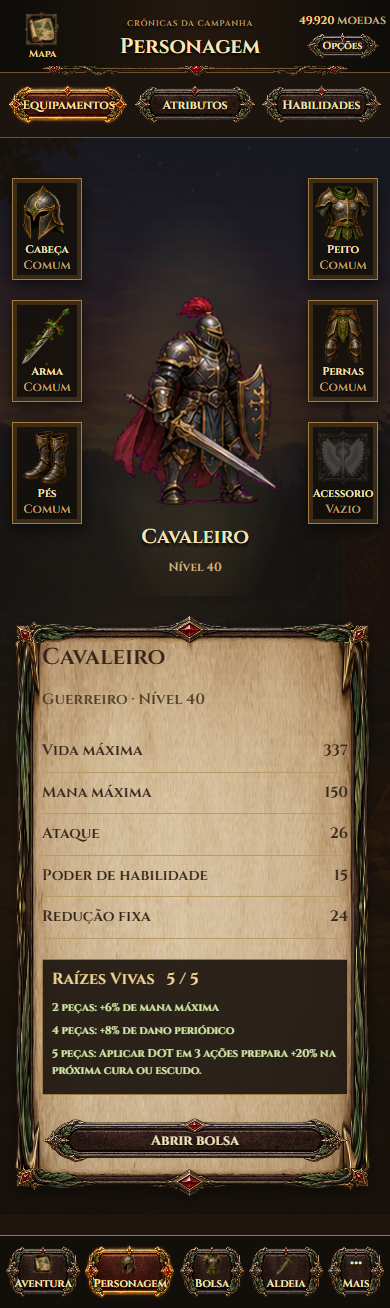
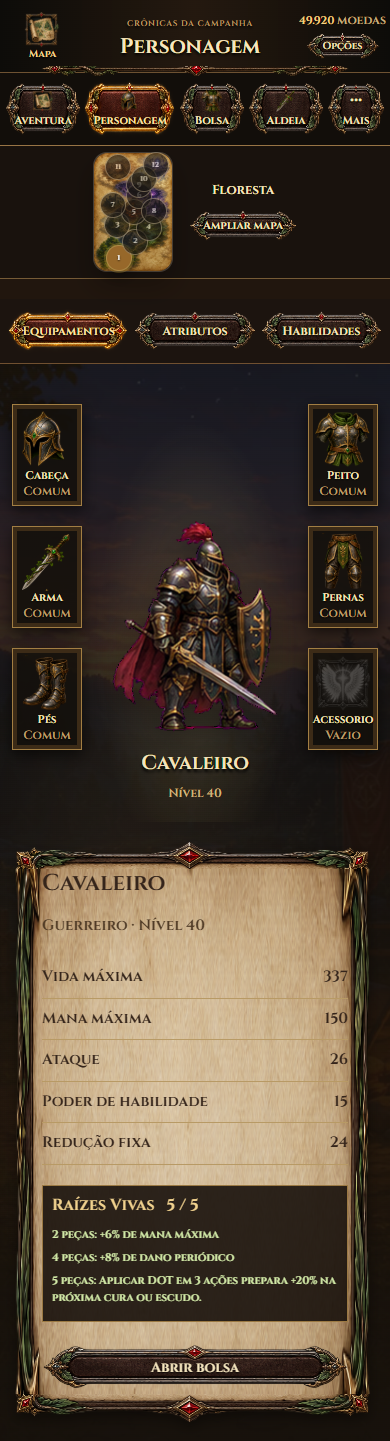
Ajusta alinhamento da HUD, navegacao superior e mapa persistente

diff --git a/assets/js/systems/campaign-hud.js b/assets/js/systems/campaign-hud.js
@@ -29,10 +29,10 @@ const CampaignHUD = (() => {
     const level = document.getElementById('levelUpPanel');
     game.innerHTML = `<div id="campaignHud" class="game-layout rpg-layout">
       <header class="rpg-top"><div id="rpgMapButton"></div><div class="rpg-location"><span class="rpg-kicker">Crônicas da campanha</span><h1 id="rpgTitle"></h1></div><div id="rpgAccount"></div></header>
-      <main id="rpgMain"><section id="enemyInfo"></section><div id="rpgChronicle" class="rpg-chronicle" aria-live="polite"></div><div id="actions"></div><div id="rpgLevelMount"></div></main>
       <nav id="modeTabs" class="rpg-mainnav" aria-label="Navegação da campanha"></nav>
+      <div class="rpg-world-layout"><aside id="regionInfo" class="rpg-world-map" aria-label="Mapa da campanha"></aside><main id="rpgMain"><div id="actions"></div><div id="rpgLevelMount"></div><section id="enemyInfo"></section><div id="rpgChronicle" class="rpg-chronicle" aria-live="polite"></div></main></div>
       <div id="playerInfo" hidden></div><div id="heroPortraitPanel" hidden></div>
-      <dialog id="rpgDialog" aria-labelledby="rpgDialogTitle"><header><h2 id="rpgDialogTitle"></h2><button type="button" data-hud="close-dialog" aria-label="Fechar janela">Fechar ×</button></header><div id="rpgDialogContent"></div><section id="logPanel" hidden><div id="rpgLogMount"></div></section><section id="regionInfo" hidden></section><section id="inventoryInfo" hidden></section></dialog>
+      <dialog id="rpgDialog" aria-labelledby="rpgDialogTitle"><header><h2 id="rpgDialogTitle"></h2><button type="button" data-hud="close-dialog" aria-label="Fechar janela">Fechar ×</button></header><div id="rpgDialogContent"></div><section id="logPanel" hidden><div id="rpgLogMount"></div></section><section id="inventoryInfo" hidden></section></dialog>
     </div>`;
     document.getElementById('rpgLogMount').append(log);
     document.getElementById('rpgLevelMount').append(level);
@@ -63,6 +63,7 @@ const CampaignHUD = (() => {
     panel.className='rpg-content';
     panel.innerHTML=state.bag?renderBag():currentMode==='battle'?renderBattle():currentMode==='village'?renderVillage():currentMode==='camp'?renderCharacter():currentMode==='bestiary'?`<section class="rpg-journal">${renderBestiary()}</section>`:currentMode==='trophies'?`<section class="rpg-journal">${renderTrophySummaryPanel()}${renderTrophyGroups()}</section>`:renderPortal();
     if(!state.bag && currentMode==='battle') dockVitals();
+    document.getElementById('regionInfo').innerHTML=renderRegionMapCard().replace(/<p class="map-current-label">[\s\S]*?<\/p>/,`<div class="rpg-map-caption"><strong>${esc(currentRegion)}</strong>${button('Ampliar mapa','map','','aria-label="Ampliar mapa da campanha"')}</div>`);
     renderActions(); renderLevelUpPanel(); animateBars(); nav(); syncChronicle();
     for(const control of root.querySelectorAll('button[data-tooltip]:not([aria-label])'))control.setAttribute('aria-label',control.textContent.trim());
     if(state.bag || (currentMode!=='battle'&&!progressionPending())) document.getElementById('levelUpPanel').style.display='none';
@@ -155,7 +156,7 @@ const CampaignHUD = (() => {
     const setCount=EquipmentSystem.getSetBonuses(player).sets.find(set=>set.region===region)?.count||0;
     const slots=upgrading?candidates.map(entry=>button(`${itemArt(entry.item)}<span>${esc(slotLabels[entry.item.slot])}<small>${esc(getRarityInfo(entry.item.rarity).label)}</small></span>`,'upgrade-item',entry.key,`class="rpg-rack-slot" aria-pressed="${entry.key===chosen?.key}" aria-label="Selecionar ${esc(entry.item.name)}"`)).join(''):EquipmentData.slots.map(slot=>button(`${slotArt(slot)}<span>${text(slotLabels[slot])}</span>`,'craft-slot',slot,`class="rpg-rack-slot" aria-pressed="${slot===state.slot}"`)).join('');
     const actionable=upgrading?!!upgrade&&player.coins>=cost&&EquipmentSystem.isRegionUnlocked(region,player)&&Object.entries(requirements||{}).every(([id,qty])=>getInventoryCountById(id)>=qty):recipe&&EquipmentSystem.canCraft(recipe,player);
-    return `<section class="rpg-workshop"><aside class="rpg-workshop-map"><button data-hud="craft-map" class="rpg-map-object"><img src="assets/visual/maps/region-map.webp" alt="Mapa de regiões para fabricar equipamentos"><span>${esc(state.region)} · escolher região</span></button>${setSummary(region,setCount)}</aside><section class="rpg-equipment-rack" aria-label="Escolher equipamento">${slots||'<p>Nenhuma peça para aprimorar.</p>'}</section><section class="rpg-anvil"><h2>${esc(item?.name||'Equipe ou fabrique uma peça')}</h2><p>${text(item?.setName||'Oficina do ferreiro')}${item?' · '+esc(getRarityInfo(item.rarity).label):''}</p>${item?itemArt(item):image('item-sword')}<div class="rpg-rarity-path" aria-label="Ordem das raridades">${rarityOrder.map((r,index)=>`<span class="${r===item?.rarity?'current':''}"><i class="rpg-gem rarity-${r}" aria-hidden="true"></i>${esc(getRarityInfo(r).label)}${index<4?' <b>›</b>':''}</span>`).join('')}</div></section><section class="rpg-recipe rpg-paper"><div class="rpg-forge-tabs">${button('Fabricar','service','artisan',`aria-pressed="${!upgrading}"`)}${button('Aprimorar','service','forge',`aria-pressed="${upgrading}"`)}</div>${renderActionFeedback('village')}${item?`<h3>${upgrading?upgrade?`${esc(getRarityInfo(item.rarity).label)} → ${esc(getRarityInfo(upgrade.toRarity).label)}`:'Raridade máxima':'Atributos da peça'}</h3><p class="rpg-item-stats">${esc(formatStatBonusList(item))}</p>${upgrading&&upgrade?`<p class="rpg-upgrade-stats">Após melhorar: ${esc(formatStatBonusList(upgrade.nextItem))}</p>`:''}${!upgrading||upgrade?`${requirementList(requirements,cost)}${button(upgrading?'Melhorar para '+esc(getRarityInfo(upgrade.toRarity).label):'Fabricar comum',upgrading?'upgrade':'craft',upgrading?chosen.key:recipe.id,`class="rpg-primary" ${!actionable||locked()?'disabled':''}`)}<p class="rpg-rule-note">${upgrading?'Melhoria garantida. Uma raridade por vez.':'Toda fabricação cria uma peça comum.'}</p>`:'<p>Esta peça já alcançou a última raridade.</p>'}`:'<h3>Sua bancada está vazia</h3><p>Fabrique uma peça comum e equipe na tela do personagem, ou selecione uma peça na bolsa.</p>'}</section></section>`;
+    return `<div class="rpg-forge-tabs">${button('Fabricar','service','artisan',`aria-pressed="${!upgrading}"`)}${button('Aprimorar','service','forge',`aria-pressed="${upgrading}"`)}</div><section class="rpg-workshop"><aside class="rpg-workshop-map"><button data-hud="craft-map" class="rpg-map-object"><img src="assets/visual/maps/region-map.webp" alt="Mapa de regiões para fabricar equipamentos"><span>${esc(state.region)} · escolher região</span></button>${setSummary(region,setCount)}</aside><section class="rpg-equipment-rack" aria-label="Escolher equipamento">${slots||'<p>Nenhuma peça para aprimorar.</p>'}</section><section class="rpg-anvil"><h2>${esc(item?.name||'Equipe ou fabrique uma peça')}</h2><p>${text(item?.setName||'Oficina do ferreiro')}${item?' · '+esc(getRarityInfo(item.rarity).label):''}</p>${item?itemArt(item):image('item-sword')}<div class="rpg-rarity-path" aria-label="Ordem das raridades">${rarityOrder.map((r,index)=>`<span class="${r===item?.rarity?'current':''}"><i class="rpg-gem rarity-${r}" aria-hidden="true"></i>${esc(getRarityInfo(r).label)}${index<4?' <b>›</b>':''}</span>`).join('')}</div></section><section class="rpg-recipe rpg-paper">${renderActionFeedback('village')}${item?`<h3>${upgrading?upgrade?`${esc(getRarityInfo(item.rarity).label)} → ${esc(getRarityInfo(upgrade.toRarity).label)}`:'Raridade máxima':'Atributos da peça'}</h3><p class="rpg-item-stats">${esc(formatStatBonusList(item))}</p>${upgrading&&upgrade?`<p class="rpg-upgrade-stats">Após melhorar: ${esc(formatStatBonusList(upgrade.nextItem))}</p>`:''}${!upgrading||upgrade?`${requirementList(requirements,cost)}${button(upgrading?'Melhorar para '+esc(getRarityInfo(upgrade.toRarity).label):'Fabricar comum',upgrading?'upgrade':'craft',upgrading?chosen.key:recipe.id,`class="rpg-primary" ${!actionable||locked()?'disabled':''}`)}<p class="rpg-rule-note">${upgrading?'Melhoria garantida. Uma raridade por vez.':'Toda fabricação cria uma peça comum.'}</p>`:'<p>Esta peça já alcançou a última raridade.</p>'}`:'<h3>Sua bancada está vazia</h3><p>Fabrique uma peça comum e equipe na tela do personagem, ou selecione uma peça na bolsa.</p>'}</section></section>`;
   }
   function renderMercenary(){
     const board=EquipmentSystem.refreshContracts(player),remaining=Math.max(0,Math.ceil(((board.boardCycle+1)*EquipmentData.boardIntervalMs-Date.now())/60000));
@@ -184,13 +185,13 @@ const CampaignHUD = (() => {
     state.opener=document.activeElement;state.dialog=kind;
     document.getElementById('rpgDialogTitle').textContent=title;
     document.getElementById('rpgDialogContent').innerHTML=content||'';
-    for(const id of ['regionInfo','inventoryInfo','logPanel'])document.getElementById(id).hidden=true;
+    for(const id of ['inventoryInfo','logPanel'])document.getElementById(id).hidden=true;
     document.getElementById('rpgDialog').showModal();
   }
   function closeDialog(){document.getElementById('rpgDialog')?.close();}
   function showMap(crafting=false){
     if(crafting){const unlocked=EquipmentSystem.unlockedRegions(player);openDialog('craft-map','Região dos equipamentos',`<div class="region-map-frame crafting-region-map"><img class="region-map-image" src="assets/visual/maps/region-map.webp" alt="Regiões do mundo">${Object.keys(regions).map((region,index)=>{const marker=REGION_MAP_MARKERS[region]||{x:50,y:50};return button(`${index+1}<span class="map-marker-label">${esc(region)}</span>`,'craft-region',region,`class="region-map-marker ${state.region===region?'active':''}" style="--x:${marker.x}%;--y:${marker.y}%" aria-label="Equipamentos de ${esc(region)}${unlocked.includes(region)?'':' — região bloqueada'}" ${unlocked.includes(region)?'':'disabled'}`);}).join('')}</div><p>As receitas acompanham as regiões que você desbloqueou.</p>`);}
-    else{openDialog('map','Mapa da campanha','');const region=document.getElementById('regionInfo');region.hidden=false;region.innerHTML=renderRegionMapCard()+`<p>${enemy?'Termine o combate para viajar.':esc(regions[currentRegion].description)}</p>`;}
+    else{openDialog('map','Mapa da campanha',renderRegionMapCard()+`<p>${enemy?'Termine o combate para viajar.':esc(regions[currentRegion].description)}</p>`);}
   }
   function navigate(target){
     if(target==='more'){openDialog('more','Diário e outros caminhos',`<div class="rpg-more">${button('Bestiário','navigate','bestiary')}${button('Troféus e conquistas','navigate','trophies')}${button('Arena','navigate','arena')}${button('Dungeon','navigate','dungeon')}${button('Configurações','settings')}</div>`);return;}

diff --git a/assets/styles/campaign-hud.css b/assets/styles/campaign-hud.css
@@ -237,3 +237,47 @@ body.rpg-campaign::before{content:"";position:fixed;inset:0;background:#080a08db
 .rpg-campaign .rpg-vital-dock .scene-vital-stack>.scene-vital-bar{flex:none}
 .rpg-campaign .rpg-chronicle>button{flex:0 0 auto;width:auto}
 @media(max-width:760px){.rpg-campaign .rpg-ability-list,.rpg-campaign .rpg-potion-slot,.rpg-campaign .rpg-turn-actions{grid-column:1}.rpg-campaign .rpg-turn-actions{max-width:62%}.rpg-campaign .rpg-turn-actions button[data-hud=skills]{width:44px}.rpg-campaign .rpg-chronicle>span{min-width:0;flex:1;max-width:none}}
+/* Stable navigation and a persistent world map. */
+.rpg-campaign .rpg-mainnav{border-top:0;border-bottom:1px solid #987445}
+.rpg-campaign .rpg-world-layout{display:grid;grid-template-columns:minmax(0,1fr) 220px;align-items:start}
+.rpg-campaign #rpgMain{grid-column:1;grid-row:1}
+.rpg-campaign #regionInfo.rpg-world-map{grid-column:2;grid-row:1;position:sticky;top:8px;min-width:0;padding:14px 12px;background:#19120d;border-left:1px solid #765b36;color:var(--rpg-ink);border-radius:0;margin:0}
+.rpg-campaign .rpg-world-map .map-current-label{font-size:12px;text-align:center;margin:0 0 10px}
+.rpg-campaign :is(.rpg-world-map,#rpgDialog) .region-map-marker{display:grid;place-items:center;border:1px solid #ac8845;border-image:none;border-radius:50%;padding:0;background:#20150c;min-height:26px;width:26px;height:26px;min-width:26px;line-height:1;transform:translate(-50%,-50%)}
+.rpg-campaign :is(.rpg-world-map,#rpgDialog) .region-map-marker.active{background:#97682a;color:#fff;opacity:1}
+.rpg-campaign .rpg-world-map .map-marker-label{display:none}
+.rpg-campaign .rpg-world-map .region-map-boss-btn{border:1px solid #ac8845;border-image:none;padding:4px;min-height:30px;font-size:10px}
+.rpg-campaign .rpg-world-map .region-map-boss-progress{font-size:12px}
+.rpg-campaign button{text-align:center;vertical-align:middle}
+.rpg-campaign button:not(.region-map-marker):not(.trophy-category-hotspot):not(.trophy-category-percent):not(.trophy-overall-percent){align-content:center}
+.rpg-campaign :is(.rpg-service-nav,.rpg-character-tabs,.rpg-forge-tabs,.rpg-contract-tabs,.rpg-bag-filters,.rpg-turn-actions,.rpg-recovery,.rpg-paper,.rpg-more) button{display:inline-flex;align-items:center;justify-content:center;text-align:center}
+.rpg-campaign .rpg-mainnav button>span{flex:0 1 auto;text-align:center;line-height:1.3}
+.rpg-campaign .rpg-ability :is(strong,small){width:100%;text-align:center}
+.rpg-campaign .rpg-target-name{text-align:center}
+/* The illustration already contains its own frames: hotspots are transparent. */
+.rpg-campaign .trophy-category-map{border:0;border-radius:0;box-shadow:none;background:transparent}
+.rpg-campaign .trophy-category-map::after{display:none}
+.rpg-campaign .trophy-category-hotspot{border:0;border-image:none;border-radius:0;background:transparent;box-shadow:none;min-height:0;min-width:0;padding:0}
+.rpg-campaign .trophy-category-hotspot:is(:hover,.active){border:0;background:#ffd87812;box-shadow:none}
+.rpg-campaign :is(.trophy-category-percent,.trophy-overall-percent){display:grid;place-items:center;border:0;border-image:none;min-width:40px;min-height:22px;padding:3px 7px;background:#100c09cc;box-shadow:none;border-radius:3px;line-height:1.2}
+.rpg-campaign :is(.trophy-category-percent,.trophy-overall-percent).active{background:#80602c;color:#fff1c7}
+@media(max-width:1100px){
+ .rpg-campaign .rpg-world-layout{display:flex;flex-direction:column}
+ .rpg-campaign #rpgMain{width:100%}
+ .rpg-campaign #regionInfo.rpg-world-map{width:100%;top:0;z-index:25;padding:6px 12px;border-left:0;border-bottom:1px solid #765b36}
+ .rpg-campaign .rpg-world-map .region-map-card{display:flex;align-items:center;justify-content:center;gap:16px;max-width:100%;margin:0}
+ .rpg-campaign .rpg-world-map .region-map-frame{width:80px;min-width:80px;height:120px;margin:0;order:-1}
+ .rpg-campaign .rpg-world-map .map-current-label{max-width:220px;margin:0;font-size:12px}
+ .rpg-campaign .rpg-world-map .region-map-marker{width:12px;height:12px;min-width:12px;min-height:12px;font-size:7px}
+ .rpg-campaign .rpg-world-map .region-map-boss-hud{display:none}
+}
+.rpg-campaign .rpg-map-caption{display:flex;flex-direction:column;align-items:center;justify-content:center;gap:8px;margin:0 0 10px;text-align:center;font-size:13px}
+.rpg-campaign .rpg-map-caption button{display:flex;align-items:center;justify-content:center;min-height:36px;padding:0 4px;font-size:11px;border-width:10px;border-image-width:12px 18px}
+@media(max-width:1100px){.rpg-campaign .rpg-map-caption{margin:0;max-width:220px}}
+@media(max-width:760px){.rpg-campaign .rpg-ability-list{grid-template-columns:repeat(2,minmax(0,1fr))}}
+.rpg-campaign .rpg-forge-tabs{display:flex;justify-content:center;align-items:center;gap:12px;padding:10px;margin:0;background:#1c140f;border-bottom:1px solid #705030}
+.rpg-campaign .rpg-forge-tabs button{display:inline-flex;align-items:center;justify-content:center;min-width:130px}
+.rpg-campaign :is(.trophy-category-percent,.trophy-overall-percent){width:auto;max-width:54px;font-size:11px}
+.rpg-campaign .trophy-category-percent strong,.rpg-campaign .trophy-overall-percent strong{font-size:11px}
+.rpg-campaign #campaignHud .region-map-marker:hover:not(:disabled){transform:translate(-50%,-50%) scale(1.08)}
+.rpg-campaign #campaignHud .trophy-overall-percent:hover:not(:disabled){transform:translateX(-50%)}

diff --git a/index.html b/index.html
@@ -8,8 +8,8 @@
 <link rel="stylesheet" href="assets/styles/equipment.css?v=20261028" />
 <link rel="stylesheet" href="assets/styles/dungeon.css" />
 <link rel="preload" href="assets/visual/fonts/cinzel-variable.ttf" as="font" type="font/ttf" crossorigin />
-<link rel="stylesheet" href="assets/styles/campaign-hud.css?v=20261028-rpg4" />
-<link rel="stylesheet" href="assets/styles/campaign-typography.css?v=20261028-cinzel650" />
+<link rel="stylesheet" href="assets/styles/campaign-hud.css?v=20261029-navigation" />
+<link rel="stylesheet" href="assets/styles/campaign-typography.css?v=20261029-centered" />
 </head>
 <body class="rpg-campaign">
 <div class="container">
@@ -46,7 +46,7 @@
 <button id="settingsFab" class="settings-fab" onclick="toggleSettingsPanel()">Configuracao</button>
 <div id="settingsPanel" class="panel settings-panel" style="display:none;"></div>
 <script src="assets/vendor/peerjs-1.5.4.min.js"></script>
-<script src="assets/js/systems/storage-system.js"></script>
+<script src="assets/js/systems/storage-system.js?v=20261029-quiet"></script>
 <script src="assets/js/data/system-data.js"></script>
 <script src="assets/js/data/world-data.js"></script>
 <script src="assets/js/data/class-trees.js"></script>
@@ -58,7 +58,7 @@
 <script src="assets/js/systems/page-navigation.js"></script>
 <script src="assets/js/systems/achievement-system.js?v=20261028"></script>
 <script src="assets/js/game.js?v=20261028"></script>
-<script src="assets/js/systems/campaign-hud.js?v=20261028-rpg4"></script>
+<script src="assets/js/systems/campaign-hud.js?v=20261029-navigation"></script>
 <script src="assets/js/systems/dungeon-system.js"></script>
 </body>
 </html>

diff --git a/assets/js/systems/storage-system.js b/assets/js/systems/storage-system.js
@@ -1,18 +1,9 @@
-// Storage failures keep the session playable and are always visible to the player.
+// Storage failures keep the session playable; callers can inspect available.
 const GameStorage = (() => {
   const memory = new Map();
   let failed = false;
-  function announce(){
-    if(!failed || !document.body){ return; }
-    let notice = document.getElementById("saveStorageNotice");
-    if(!notice){
-      notice = document.createElement("div");
-      notice.id = "saveStorageNotice";
-      notice.setAttribute("role", "alert");
-      document.body.appendChild(notice);
-    }
-    notice.textContent = "Nao foi possivel salvar neste navegador. Seu progresso continua nesta sessao. Exporte uma copia em Configuracao antes de fechar.";
-  }
+  // Storage status remains available to settings without a persistent gameplay overlay.
+  function announce(){}
   return {
     getItem(key){
       if(memory.has(key)){ return memory.get(key); }

diff --git a/docs/hud/implementacao-rpg.md b/docs/hud/implementacao-rpg.md
@@ -2,7 +2,17 @@
 
 28/10/2026.
 
-## Estado atual: layout anterior restaurado
+## Ajustes de navegação — 29/10/2026
+
+A tipografia continua em Cinzel 650. Rótulos e botões têm alinhamento central explícito. A navegação principal, as ações de combate e as abas Fabricar/Aprimorar precedem o conteúdo variável. No celular, as habilidades ocupam duas colunas, evitando uma última habilidade isolada numa terceira coluna.
+
+O mapa de regiões fica permanentemente no painel lateral do desktop e numa faixa compacta no celular. A posição acompanha a rolagem e o botão Ampliar mapa abre a versão maior para consultar nomes e viajar; as restrições de viagem e de chefe continuam no motor da campanha.
+
+Os hotspots das conquistas não recebem a moldura genérica dos botões: a própria ilustração fornece a moldura. O aviso persistente de falha de armazenamento foi retirado; o fallback em memória continua funcionando e a API informa a disponibilidade do armazenamento.
+
+Verificação: 50 combinações de telas/larguras com mapa persistente, navegação acima do conteúdo, ausência de overflow, fontes e imagens; fluxo de armazenamento restrito sem banner e com preservação na sessão; 24 combinações de classe/nível/largura sem cortes nos rótulos. Regras, habilidades e progressão também passaram nesta revisão.
+
+## Layout e tipografia de base
 
 A revisão visual rpg2 foi desfeita após a avaliação do usuário. A campanha voltou às molduras, distribuição, botões e apresentação da oficina anteriores. As correções funcionais de progressão e acessibilidade foram preservadas.
 
